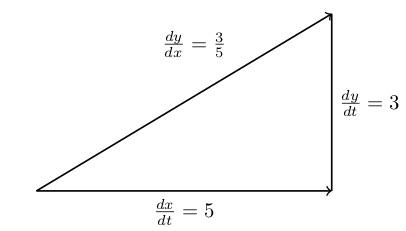
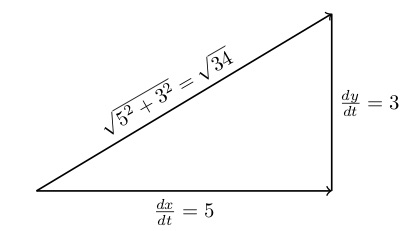
3-7

Changed region(s): [[0.2365, 0.3333, 0.4729, 0.5758], [0.4729, 0.1212, 0.5911, 0.3333], [0.3842, 0.1212, 0.4433, 0.2727]]

diff --git a/html/Calculus/images/3-7-ParametricGraphingEx1-45.tex b/html/Calculus/images/3-7-ParametricGraphingEx1-45.tex
@@ -19,7 +19,7 @@
 \draw[-,thick] (-0.5,-.5) node[above] {};
 \draw[-,thick] (2.5,0) node[below] {$\frac{dx}{dt}=5$};
 \draw[-,thick] (5,1.5) node[right] {$\frac{dy}{dt}=3$};
-\draw[-,thick] (2,2.5) node[right] {$\frac{dy}{dx}=\frac{3}{5}$};
+\draw[-,thick] (1,1) node[right, rotate = 30] {$\sqrt{5^2+3^2}=\sqrt{34}$};
 
 \end{tikzpicture}
 
